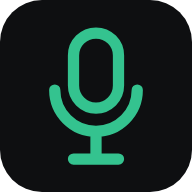
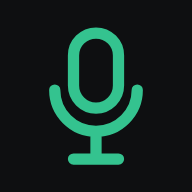
App instalável em todos os aparelhos (PWA): service worker, ícones, botão e guia de instalação
Claude-Session: https://claude.ai/code/session_01JHLFDTrDnWbaLCb8fLRU61

diff --git a/public/app.js b/public/app.js
@@ -230,6 +230,7 @@ function shell(content, { crumb = '', tabs = '' } = {}) {
           <a href="#/">Eventos</a>
           ${u.role === 'superadmin' ? '<a href="#/admin">Utilizadores</a>' : ''}
           <a href="#/account">A minha conta</a>
+          ${isStandalone() ? '' : '<button data-install>📲 Instalar app</button>'}
           <hr>
           <button data-logout>Sair</button>
         </div>
@@ -244,8 +245,76 @@ document.addEventListener('click', async (e) => {
   const dd = $('#dd');
   if (m && dd) { dd.classList.toggle('hide'); return; }
   if (dd && !e.target.closest('.dropdown')) dd.classList.add('hide');
+  if (e.target.closest('[data-install]')) { $('#dd')?.classList.add('hide'); return installModal(); }
+  if (e.target.closest('[data-dismissinstall]')) { try { localStorage.setItem('md_noinstall', '1'); } catch { } e.target.closest('.installbar')?.remove(); return; }
   if (e.target.closest('[data-logout]')) { await api('POST', '/api/logout'); state.me = null; stopStream(); go('#/login'); }
 });
+
+// ---------- instalar como app (PWA) ----------
+let deferredPrompt = null;
+window.addEventListener('beforeinstallprompt', (e) => { e.preventDefault(); deferredPrompt = e; });
+window.addEventListener('appinstalled', () => { deferredPrompt = null; toast('MicDesk instalada ✓'); $('.installbar')?.remove(); });
+if ('serviceWorker' in navigator && window.isSecureContext) navigator.serviceWorker.register('/sw.js').catch(() => { });
+function isStandalone() { return window.matchMedia('(display-mode: standalone)').matches || navigator.standalone === true; }
+function device() {
+  const ua = navigator.userAgent;
+  const iPad = /iPad/.test(ua) || (/Macintosh/.test(ua) && navigator.maxTouchPoints > 1);
+  if (iPad) return { os: 'ios', short: 'iPad', name: 'iPad' };
+  if (/iPhone|iPod/.test(ua)) return { os: 'ios', short: 'iPhone', name: 'iPhone' };
+  if (/Android/.test(ua)) return { os: 'android', short: 'telemóvel', name: 'Android' };
+  if (/Macintosh/.test(ua)) return { os: 'mac', short: 'Mac', name: 'Mac' };
+  if (/Windows/.test(ua)) return { os: 'windows', short: 'PC', name: 'Windows' };
+  return { os: 'other', short: 'aparelho', name: 'este aparelho' };
+}
+function browserName() {
+  const ua = navigator.userAgent;
+  if (/Edg\//.test(ua)) return 'edge';
+  if (/CriOS|Chrome\//.test(ua) && !/OPR|SamsungBrowser/.test(ua)) return 'chrome';
+  if (/SamsungBrowser/.test(ua)) return 'samsung';
+  if (/Firefox|FxiOS/.test(ua)) return 'firefox';
+  if (/Safari/.test(ua)) return 'safari';
+  return 'other';
+}
+const SHARE_ICON = '<svg width="18" height="18" viewBox="0 0 24 24" fill="none" stroke="currentColor" stroke-width="2" stroke-linecap="round" style="vertical-align:-3px"><path d="M12 3v12M8 7l4-4 4 4"/><path d="M5 11v8a2 2 0 0 0 2 2h10a2 2 0 0 0 2-2v-8"/></svg>';
+function installModal() {
+  const d = device(), br = browserName();
+  const guides = {
+    ios: { title: 'iPhone / iPad', steps: [
+      'Abre este endereço no <b>Safari</b> (no iOS 16.4+ também funciona no Chrome).',
+      `Carrega no botão <b>Partilhar</b> ${SHARE_ICON} (em baixo no iPhone, em cima no iPad).`,
+      'Desliza e escolhe <b>"Adicionar ao ecrã principal"</b>.',
+      'Carrega em <b>Adicionar</b>. O ícone MicDesk aparece no ecrã principal.'] },
+    android: { title: 'Android', steps: [
+      'Abre este endereço no <b>Chrome</b> (ou Samsung Internet / Edge).',
+      'Carrega em <b>Instalar</b> aqui em cima, ou no menu <b>⋮</b> → <b>"Instalar aplicação"</b>.',
+      'Confirma. A MicDesk fica na gaveta de apps e no ecrã principal.'] },
+    windows: { title: 'Windows', steps: [
+      'Abre este endereço no <b>Edge</b> ou no <b>Chrome</b>.',
+      'Carrega em <b>Instalar</b> aqui em cima, ou no ícone <b>⊕ / 🖥</b> no fim da barra de endereço.',
+      'A MicDesk fica no menu Iniciar e podes afixá-la na barra de tarefas.'] },
+    mac: { title: 'MacBook / Mac', steps: [
+      '<b>Safari</b> (macOS Sonoma ou mais recente): menu <b>Ficheiro → "Adicionar à Dock"</b>.',
+      '<b>Chrome / Edge</b>: carrega em <b>Instalar</b> aqui em cima, ou no ícone <b>⊕</b> na barra de endereço.',
+      'A MicDesk fica na Dock e no Launchpad, abre em janela própria.'] },
+  };
+  const order = [d.os, ...['ios', 'android', 'windows', 'mac'].filter((k) => k !== d.os)].filter((k) => guides[k]);
+  const section = (k, open) => `<details class="iguide" ${open ? 'open' : ''}><summary>${guides[k].title}${k === d.os ? ' <span class="pill ok">este aparelho</span>' : ''}</summary>
+    <ol>${guides[k].steps.map((x) => `<li>${x}</li>`).join('')}</ol></details>`;
+  const canPrompt = !!deferredPrompt;
+  const f = modal('Instalar MicDesk', `
+    ${!window.isSecureContext ? `<div class="card" style="border-color:var(--warn);margin-bottom:12px"><b style="color:var(--warn)">⚠ Precisa de HTTPS</b><div class="small muted">Para instalar como app, o site tem de ser aberto com um endereço <b>https://</b> (ex: com o Nginx Proxy Manager). Em http:// só dá para usar no browser.</div></div>` : ''}
+    ${canPrompt ? `<button type="button" class="btn primary" id="doinstall" style="width:100%;min-height:56px;font-size:18px;margin-bottom:14px">📲 Instalar agora neste ${d.short}</button>` : ''}
+    ${d.os === 'ios' && br !== 'safari' && br !== 'chrome' ? '<p class="small" style="color:var(--warn)">Abre no Safari para poderes instalar.</p>' : ''}
+    ${br === 'firefox' && d.os !== 'android' && d.os !== 'ios' ? '<p class="small" style="color:var(--warn)">O Firefox no computador não instala apps web — usa o Chrome, Edge ou Safari.</p>' : ''}
+    ${order.map((k, i) => section(k, i === 0)).join('')}
+    <p class="small muted" style="margin-bottom:0">A app instalada é sempre a versão mais recente do teu servidor — não é preciso atualizar nada nos aparelhos.</p>`);
+  $('#doinstall', f)?.addEventListener('click', async () => {
+    deferredPrompt.prompt();
+    const r = await deferredPrompt.userChoice.catch(() => null);
+    deferredPrompt = null; closeModal();
+    if (r && r.outcome === 'accepted') toast('A instalar…');
+  });
+}
 
 // ---------- login ----------
 function renderLogin() {
@@ -255,6 +324,7 @@ function renderLogin() {
     <div class="field"><label>Email</label><input name="email" type="email" autocomplete="username" required></div>
     <div class="field"><label>Password</label><input name="password" type="password" autocomplete="current-password" required></div>
     <button class="btn primary" style="width:100%">Entrar</button>
+    ${isStandalone() ? '' : '<button type="button" class="btn ghost" style="width:100%;margin-top:8px" data-install>📲 Instalar a app neste aparelho</button>'}
   </form></div>`;
   $('#lf').addEventListener('submit', async (e) => {
     e.preventDefault();
@@ -300,7 +370,8 @@ async function renderHome() {
       </div>
     </div>
     <div class="list" style="margin-top:16px">${events.length ? events.map(item).join('') : `<div class="card empty">${state.showArchived ? 'Sem eventos arquivados.' : 'Ainda não há eventos. Cria o primeiro.'}</div>`}</div>`;
-  app.innerHTML = shell(content);
+  let hideBar = isStandalone(); try { hideBar = hideBar || localStorage.getItem('md_noinstall') === '1'; } catch { }
+  app.innerHTML = shell((hideBar ? '' : `<div class="card installbar"><span style="font-size:22px">📲</span><div class="grow"><b>Instala a MicDesk neste ${device().short}</b><div class="small muted">Abre em ecrã inteiro, com ícone próprio, como uma app normal.</div></div><button class="btn sm primary" data-install>Instalar</button><button class="btn sm ghost icon" data-dismissinstall aria-label="Fechar">✕</button></div>`) + content);
   $$('[data-arch]').forEach((b) => b.onclick = () => { state.showArchived = b.dataset.arch === '1'; renderHome(); });
   $('#ownerf')?.addEventListener('change', (e) => { state.ownerFilter = Number(e.target.value) || null; renderHome(); });
   $('#newev')?.addEventListener('click', () => (lim.max && lim.used >= lim.max ? limitModal(lim.max) : newEventModal()));

diff --git a/public/sw.js b/public/sw.js
@@ -1,0 +1,27 @@
+// MicDesk service worker — torna a app instalável e abre rápido mesmo com rede fraca.
+// Dados (/api) nunca vêm da cache: estão sempre ao vivo.
+const CACHE = 'micdesk-shell-v1';
+const SHELL = ['/', '/manifest.webmanifest', '/icon.svg', '/icon-192.png', '/icon-512.png', '/apple-touch-icon.png'];
+
+self.addEventListener('install', (e) => {
+  e.waitUntil(caches.open(CACHE).then((c) => c.addAll(SHELL)).then(() => self.skipWaiting()));
+});
+self.addEventListener('activate', (e) => {
+  e.waitUntil(caches.keys().then((ks) => Promise.all(ks.filter((k) => k !== CACHE).map((k) => caches.delete(k)))).then(() => self.clients.claim()));
+});
+self.addEventListener('fetch', (e) => {
+  const req = e.request;
+  const url = new URL(req.url);
+  if (req.method !== 'GET' || url.origin !== location.origin || url.pathname.startsWith('/api/') || url.pathname === '/health') return;
+  // páginas: rede primeiro (sempre a versão mais recente), cache se estiver offline
+  if (req.mode === 'navigate') {
+    e.respondWith(fetch(req).then((r) => { const cp = r.clone(); caches.open(CACHE).then((c) => c.put('/', cp)); return r; })
+      .catch(() => caches.match('/')));
+    return;
+  }
+  // JS/CSS com versão (?v=) e ícones: cache primeiro
+  e.respondWith(caches.match(req).then((hit) => hit || fetch(req).then((r) => {
+    if (r.ok && (url.searchParams.has('v') || /\.(png|svg|webmanifest)$/.test(url.pathname))) { const cp = r.clone(); caches.open(CACHE).then((c) => c.put(req, cp)); }
+    return r;
+  })));
+});

diff --git a/public/app.css b/public/app.css
@@ -324,3 +324,13 @@ td.gair.gfree { background: #1a1213; }
   .mgrid.live .gn { font-size: 15px; }
   .bigtime.sm { font-size: 24px; }
 }
+
+/* instalar app */
+.installbar { display: flex; align-items: center; gap: 12px; margin: 4px 0 14px; border-color: #1d4d3a; background: #10201a; }
+.iguide { border: 1px solid var(--line); border-radius: 12px; margin-bottom: 8px; background: var(--panel2); }
+.iguide summary { cursor: pointer; padding: 12px 14px; font-weight: 600; list-style: none; display: flex; align-items: center; gap: 8px; }
+.iguide summary::-webkit-details-marker { display: none; }
+.iguide summary::before { content: '▸'; color: var(--muted); }
+.iguide[open] summary::before { content: '▾'; }
+.iguide ol { margin: 0; padding: 0 16px 14px 34px; line-height: 1.55; }
+.iguide li { margin-bottom: 6px; }

diff --git a/public/index.html b/public/index.html
@@ -11,7 +11,7 @@
   <title>MicDesk</title>
   <link rel="manifest" href="/manifest.webmanifest">
   <link rel="icon" href="/icon.svg" type="image/svg+xml">
-  <link rel="apple-touch-icon" href="/icon-192.png">
+  <link rel="apple-touch-icon" href="/apple-touch-icon.png">
   <link rel="stylesheet" href="/app.css">
 </head>
 <body>

diff --git a/README.md b/README.md
@@ -87,9 +87,20 @@ docker run --rm -v micdesk_data:/data -v $(pwd):/b alpine sh -c "cp /data/micdes
 
 Substitui os ficheiros e corre `docker compose up -d --build`. Se usaste a opção B, faz build da imagem outra vez e, na stack, carrega em **Update the stack**. Os dados ficam no volume e não se perdem.
 
-## Instalar como app no iPad / iPhone
+## Instalar a app nos aparelhos (iPhone, iPad, Android, Windows, Mac)
 
-Abre o endereço no Safari, carrega em **Partilhar → Adicionar ao ecrã principal** e a app abre em ecrã inteiro, como uma app nativa.
+A MicDesk é uma app web instalável (PWA). Fica com ícone próprio, abre em ecrã inteiro ou em janela própria e é sempre a versão mais recente do servidor. Não há lojas de apps nem ficheiros para instalar.
+
+> ⚠ **É obrigatório HTTPS.** Os aparelhos só deixam instalar se o site for aberto com `https://` (por exemplo através do Nginx Proxy Manager com um certificado Let's Encrypt). Com `http://IP:3000` a app funciona no browser, mas não se instala.
+
+Na app há o botão **📲 Instalar app**: aparece no ecrã de login, no aviso da página de eventos e no menu do utilizador. Mostra os passos certos para o aparelho que está a ser usado.
+
+| Aparelho | Como instalar |
+|---|---|
+| **iPhone / iPad** | No Safari: botão Partilhar → **Adicionar ao ecrã principal** |
+| **Android** | No Chrome: botão **Instalar** da app, ou menu ⋮ → **Instalar aplicação** |
+| **Windows** | No Edge ou no Chrome: botão **Instalar**, ou o ícone ⊕ na barra de endereço. A app fica no menu Iniciar |
+| **Mac** | No Safari: **Ficheiro → Adicionar à Dock**. No Chrome ou no Edge: botão **Instalar** |
 
 ## Variáveis de ambiente
 
